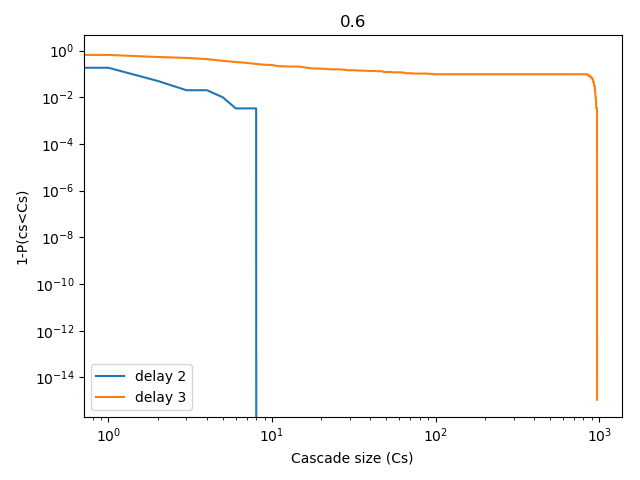
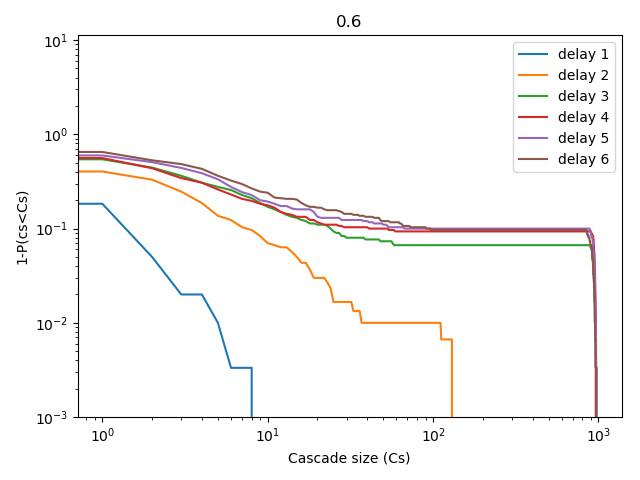
final cascade
I hope

diff --git a/ploting_results.py b/ploting_results.py
@@ -22,13 +22,13 @@ plot_comparison_densities(densities,delays=[1,2,3,4,5,6,7],
 
 
 '''
-sizes1 = pickle.load(open('ER/results/cascades/SOFT[1, 6].pickle', 'rb'))
-sizes2 = pickle.load(open('ER/results/cascades/ratio3_SOFT[2, 3, 4, 5].pickle', 'rb'))
+sizes1 = pickle.load(open('BA/results/cascades/SOFT[1, 6].pickle', 'rb'))
+sizes2 = pickle.load(open('BA/results/cascades/ratio3_SOFT[2, 3, 4, 5].pickle', 'rb'))
 
 
 [sizes1.append(siz) for siz in sizes2]
 
-res = plot_cascade_sizes(sizes1,delays=[1,6,2,3,4,5],title='0.6',
-                   filename='ER/images/cascades/full2_ratio3.png')
+res = plot_cascade_sizes(sizes1,delays=[1,6,2,3,4,5],title='0.6',ylim=10e-4,
+                   filename='BA/images/cascades/full2_ratio3.png')
 
 print(res)
